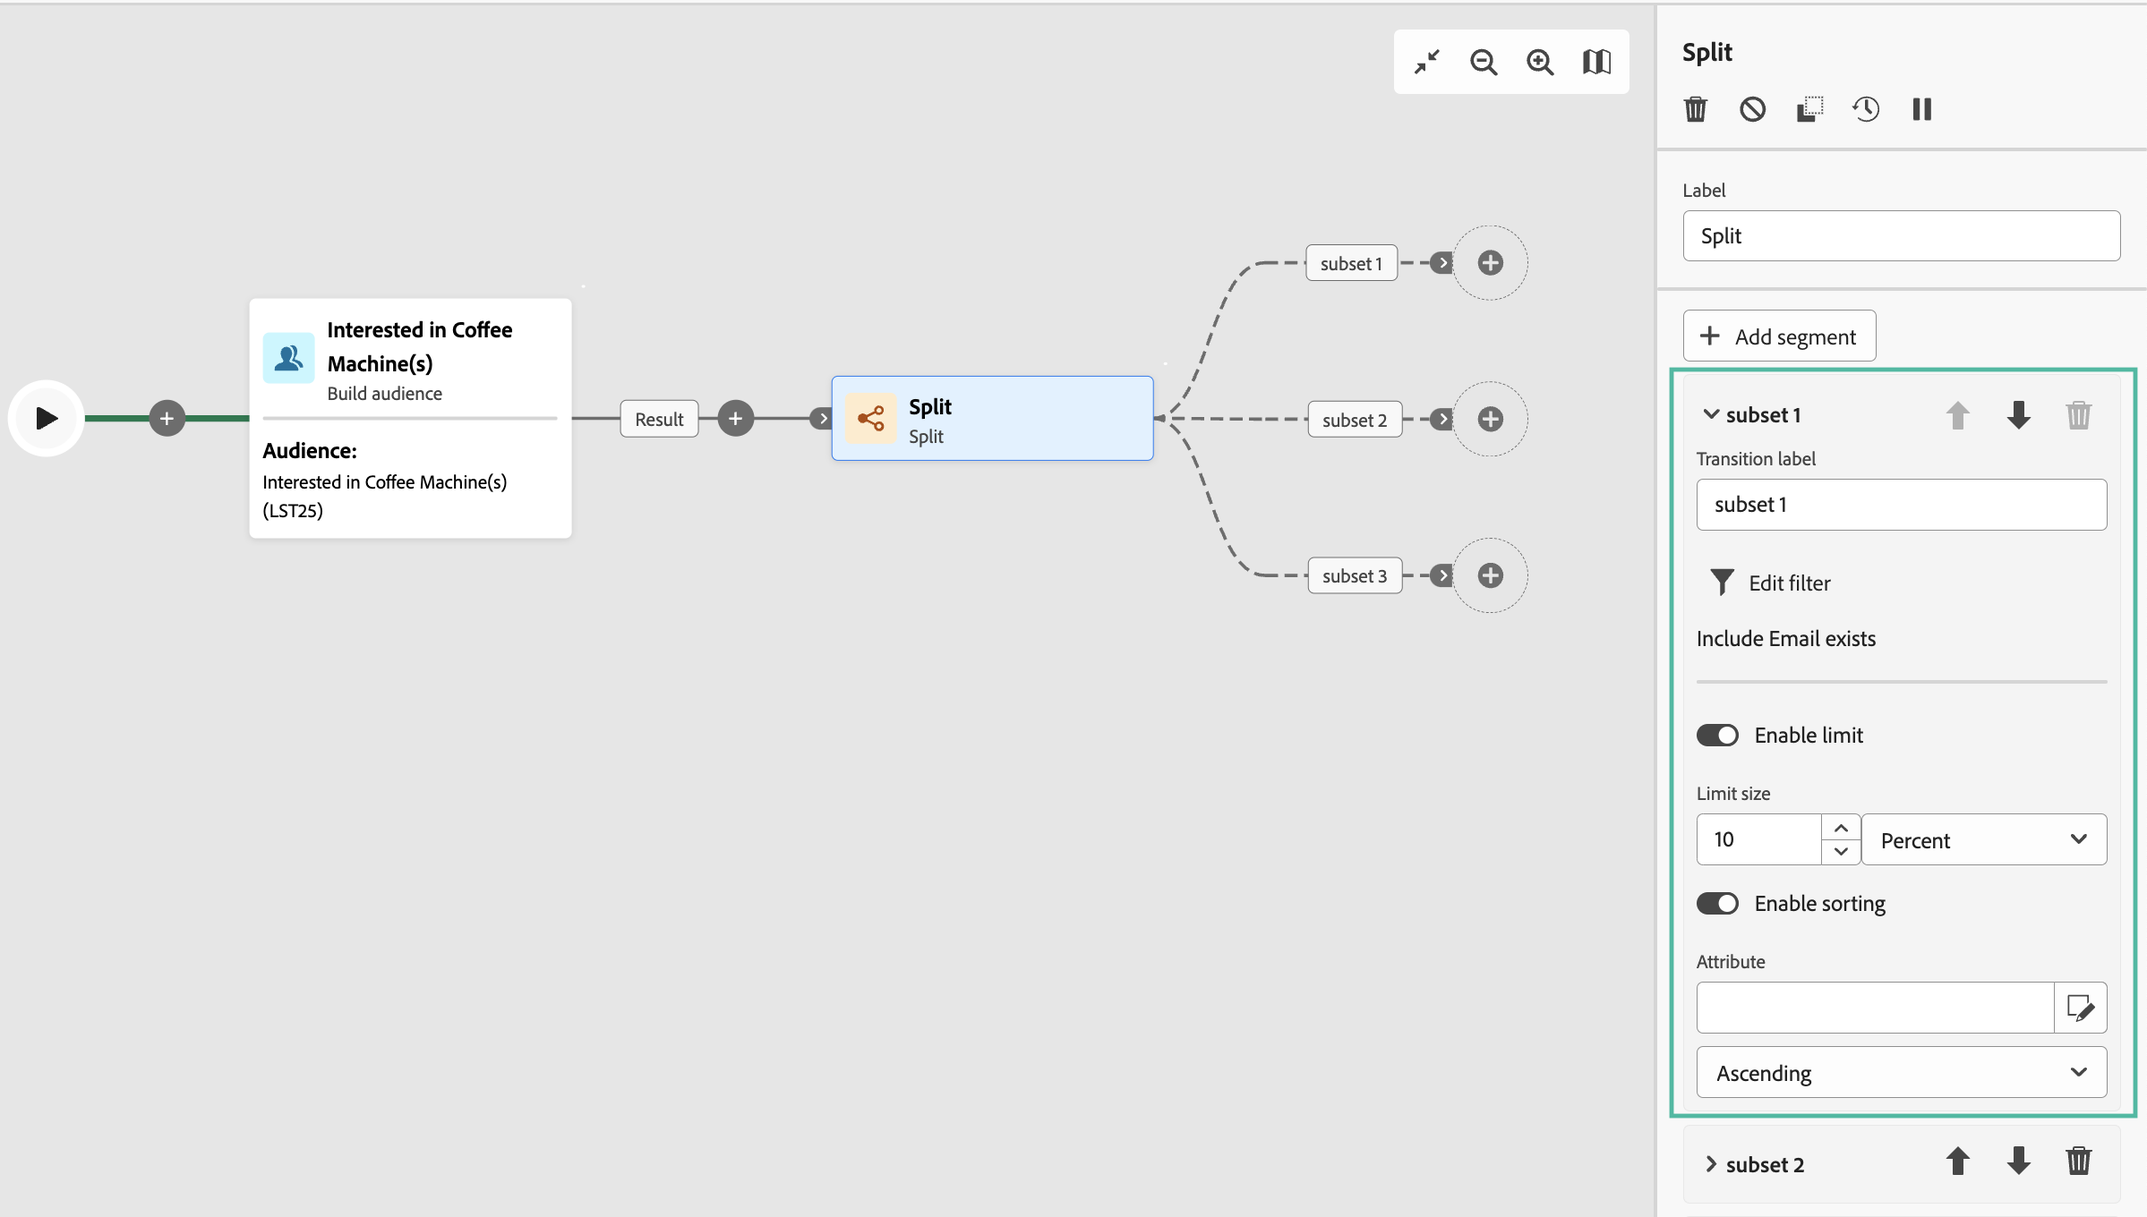
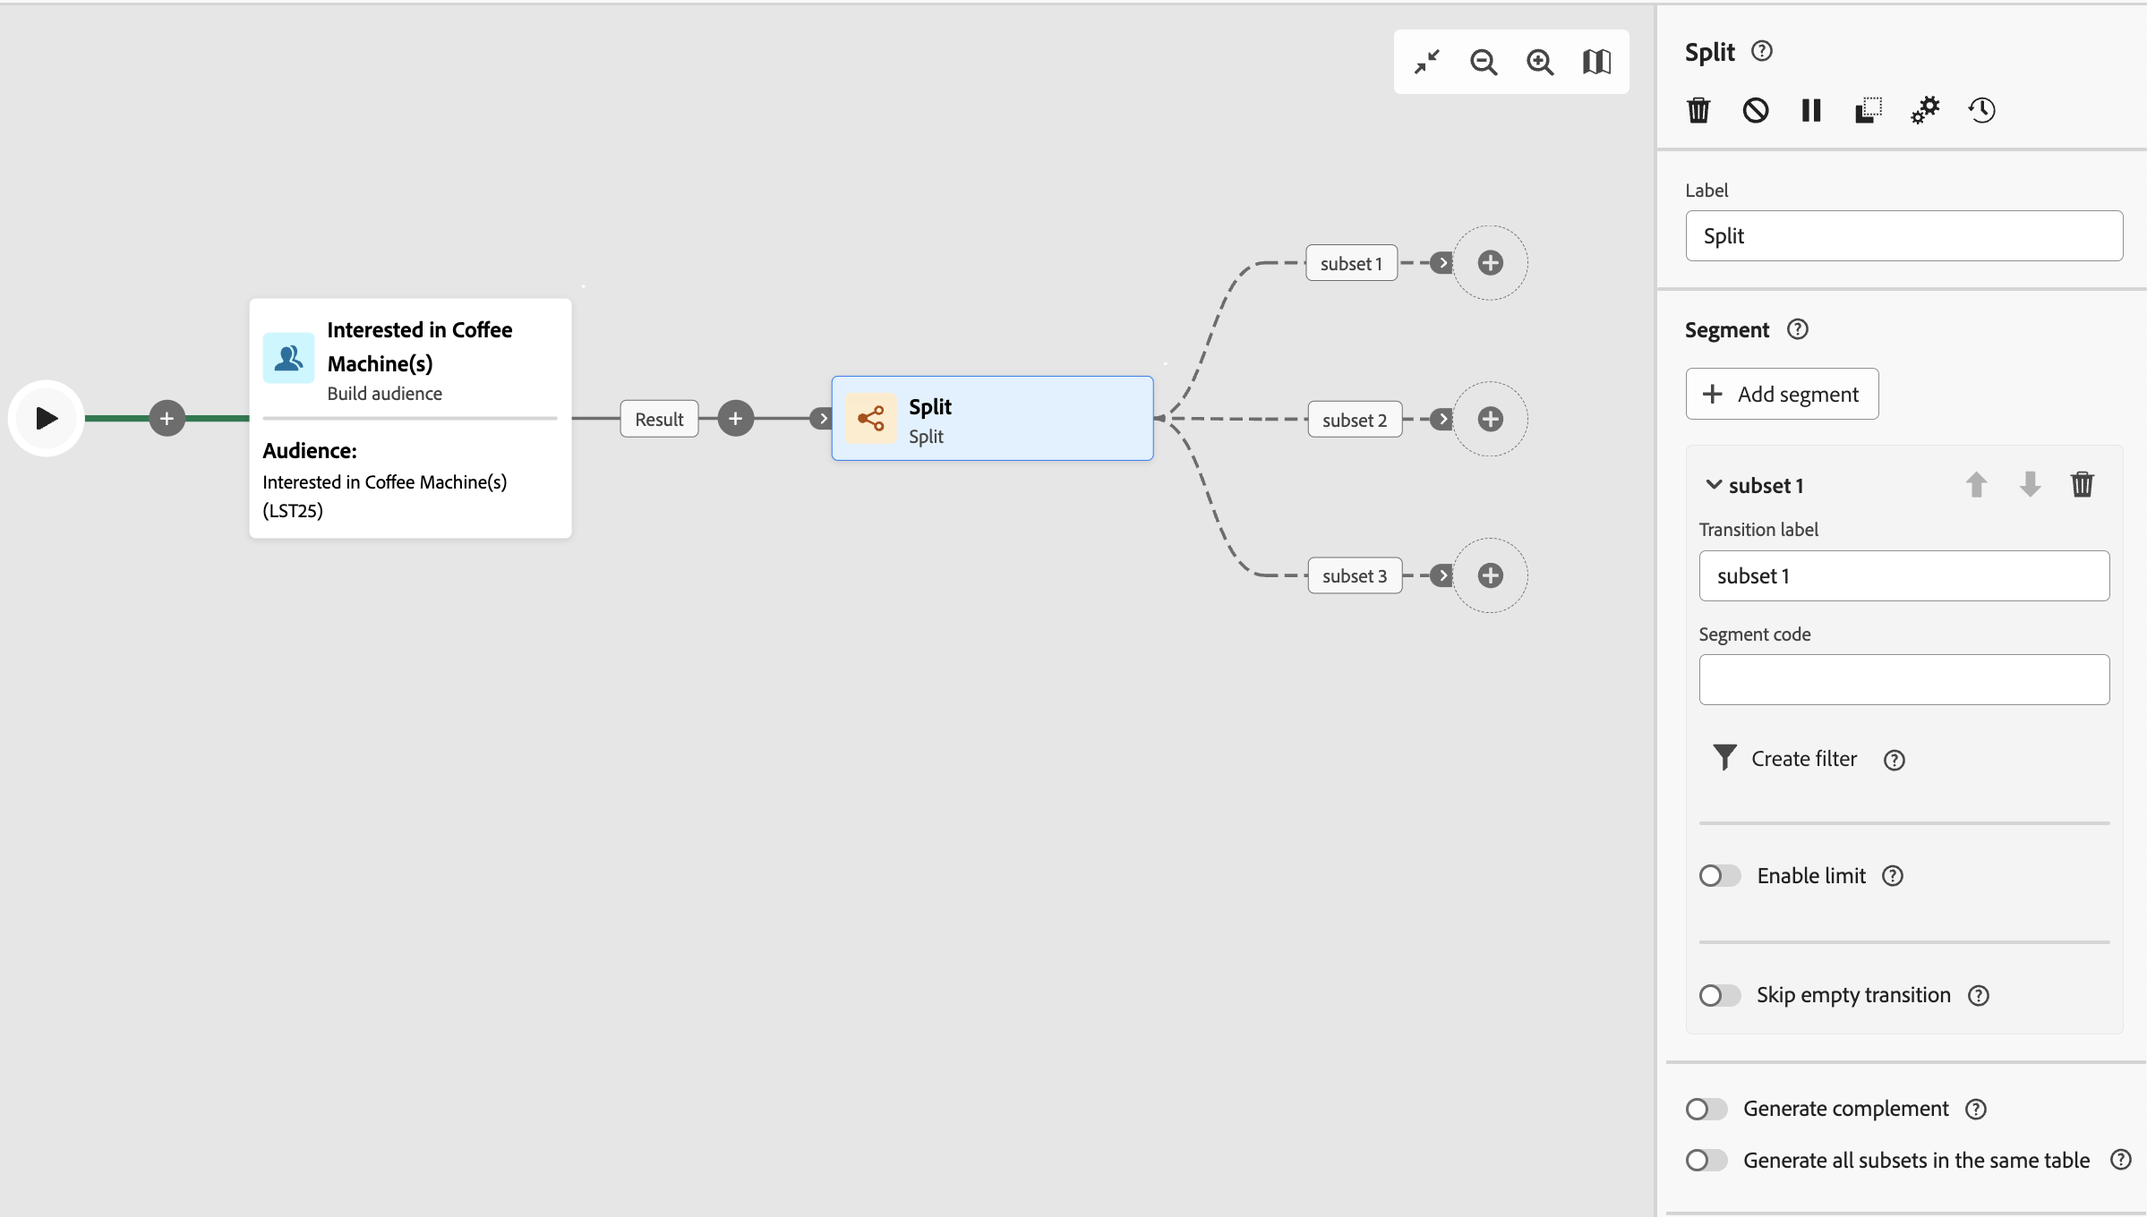
workflow activities update

Changed region(s): [[0.7715, 0.2471, 1.0, 1.0], [0.7715, 0.0309, 0.9258, 0.1235], [0.7715, 0.1544, 0.8332, 0.2162]]

diff --git a/help/v8/workflows/activities/javascript-code.md b/help/v8/workflows/activities/javascript-code.md
@@ -1,0 +1,130 @@
+---
+audience: end-user
+title: Use the JavaScript code workflow activity
+description: Learn how to use the JavaScript code workflow activity
+---
+# JavaScript code {#javascript-code}
+
+>[!CONTEXTUALHELP]
+>id="acw_orchestration_javascript"
+>title="JavaScript code"
+>abstract="The **JavaScript code** activity allows you to execute a JavaScript script in the context of a workflow. This allows you to perform actions or collect information from the database. Use **Simple** JavaScript code activities to execute one code snippet at workflow execution. **Advanced** Javascript code activities allows you to perform more complex operation by executing two different code snippets in a sequential order. The first time the workflow is started, the first call is executed. Each time the workflow runs again, the code defined in the second call is executed."
+
+>[!CONTEXTUALHELP]
+>id="acw_orchestration_javascript_snippet"
+>title="JavaScript Snippet"
+>abstract="Define the script to execute when running the activity. If you are configuring an **Advanced** JavaScript activity, you need to edit two code snippets: the first call code to execute at the first execution of the workflow, and the next call code to execute at the next calls of the workflow."
+
+>[!CONTEXTUALHELP]
+>id="acw_orchestration_javascript_execution"
+>title="JavaScript Execution"
+>abstract="Configure the execution delay to stop the activity after a period of execution. By default, the execution phase cannot exceed 1 hour. After this delay, the process is aborted with an error message and the activity execution fails. To ignore this limit, set the value to 0."
+
+>[!CONTEXTUALHELP]
+>id="acw_orchestration_javascript_transition"
+>title="JavaScript Transition"
+>abstract="If you want to add multiple output transitions, click the **[!UICONTROL Add transitions]** button. This allows you, for example to trigger a specific transition based on a specific condition defined in the JavaScript code activity. This option is available for **Advanced** JavaScript code activities only."
+
+The **JavaScript code** activity is a **Data management** activity. Use this activity to execute a JavaScript script in the context of a workflow. This allows you to collect information from the database or perform other complex operations.
+
+## Configure the JavaScript code activity {#javascript-code-configuration}
+
+Follow these steps to configure the **JavaScript code** activity:
+
+1. Add a **JavaScript code** activity into your workflow.
+
+1. Choose which type of activity you want to create:
+
+    * **Simple**: Execute one code snippet.
+    * **Advanced**: This option allows you to perform more advanced operations by executing two different code snippets. [Learn how to configure an advanced JavaScript activity](#advanced)
+
+    >[!NOTE]
+    >
+    >With the Campaign Web User Interface, we have consolidated two activities into one by merging both **Simple** and **Advanced** JavaScript code functionalities. This consolidation does not impact the functionality of the activity in any way.
+
+1. Confirm then click the **[!UICONTROL Edit code]** button to open the expression editor. The left hand-side pane provides predefined syntaxes that you can leverage to build your code, including event variables. [Learn how to work with event variables and the expression editor](../event-variables.md) 
+
+    ![](../assets/javascript-editor.png)
+
+1. In the **[!UICONTROL Execution]** section, configure the delay to stop the activity after a period of execution. By default, the execution phase cannot exceed 1 hour. After this delay, the process is aborted with an error message and the activity execution fails. To ignore this limit, set the value to 0.
+
+    ![](../assets/javascript-config.png)
+
+1. Toggle on the **[!UICONTROL Process errors]** option to keep errors that occur during the script execution in an additional output transition.
+
+## Advanced JavaScript code activities {#advanced}
+
+Advanced JavaScript activities allow you to perform complex operations. It allows you to:
+
+* Execute two different code snippets. The first code snippet is executed the first time the workflow is started. Each time the workflow runs again, the code snippet defined in the second call is executed.
+* Add multiple output transitions that you can dynamically interact with using a script.
+
+To configure an Advanced JavaScript code activity, follow these steps:
+
+1. Select the **Advanced** type, then configure the code snippet(s) to execute: 
+
+    * Click **[!UICONTROL Edit first call code]** to define the script to execute during the first call.
+    * Click **[!UICONTROL Edit next call code]** to define the script to execute during the next calls of the workflow. (optional)
+
+1. To add one or multiple output transitions, click the **[!UICONTROL Add transitions]** button and specify a label and an internal name for each transition.
+
+    In this example we have configured two transitions that are activated by the script in the code snippet based on specific conditions.
+
+    ![](../assets/javascript-transitions.png)
+
+1. Complete the configuration of the activity and start the workflow.
+
+## Example {#javascript-code-example}
+
+### Initialize variables based on the incoming population {#example1}
+
+This example shows how to initialize a variable based on the number of profiles targeted by a workflow. 
+
+![](../assets/javascript-example1.png)
+
+Here, we are targeting VIP profiles from our database. We want to create a variable named "channel" with a value that depend on the number of profiles targeted by the Build audience activity:
+
+* If more than 1000 profiles are targeted, intialize the variable with the value "email".
+* Otherwise, initialize it with the value "sms". 
+
+To do this, follow these steps:
+
+1. Add a **JavaScript code** activity with the type **Simple** after the **Build audience** activity.
+
+1. Click **Edit code** and configure the code snippet as below:
+
+    ```
+    if (vars.recCount > 1000)
+        vars.channel ="email"
+    else
+        vars.channel = "sms"
+    ```
+
+1. Start the workflow. The "channel" variable is created with the "email" or "sms" value, depending on the number of profiles targeted by the **Build audience** activity.
+
+### Trigger transitions based on a variable's value {#example2}
+
+This example shows how to trigger a transition based on the value of a variable.
+
+![](../assets/javascript-example2-transitions.png)
+
+Here, the workflow starts with an **External signal** activity, into which a variable (`interest`) is passed from another workflow. The value of the variable is either "running" or "yoga", depending on the filtering operations performed in the initial workflow.
+
+We want to trigger different transitions in the workflow, based on the value of the variable.
+
+To do this, follow these steps:
+
+1. Add a **JavaScript code** activity after the External signal activity with the type **Advanced**.
+
+1. Add two transitions: one for each possible variable value ("running", "yoga").
+
+1. Click **Edit first call code** and configure the code snippet as below:
+
+    ```
+    if (vars.interest=="running")
+        task.postEvent(task.transitionByName("running"));
+    else
+        task.postEvent(task.transitionByName("yoga"));
+    ```
+
+1. Complete the configuration of each transition to suit your needs then start the workflow. One of the two output transitions is activated, based on the value of the `interest` variable that has been passed through the **External signal** activity.

diff --git a/help/v8/workflows/event-variables.md b/help/v8/workflows/event-variables.md
@@ -7,7 +7,7 @@ exl-id: 526dc98f-391d-4f3f-a687-c980bf60b93b
 # Workflow event variables {#event-variables}
 
 Some workflow activities allow you to edit scripts in the expression editor to perform specific actions such as retrieving data coming from previous activites, building conditions, or computing file names based on event variables.
-
+ 
 ## What are event variables {#scripting}
 
 Scripts executed in the context of a workflow access a series of additional global **objects** such as the workflow itself that is being executed (`ìnstance`), its various tasks (`task`), or the events that activated a given task (`event`).
@@ -17,7 +17,7 @@ To each type of **object** is associated a category of **variables** that can be
 * **Instance variables** (`instance.vars.xxx`) are comparable to global variables. They are shared by all activities.
 * **Task variables** (`task.vars.xxx`) are comparable to local variables. They are only used by the current task. These variables are used by persistent activities to keep data and are sometimes used to exchange data between the different scripts of a same activity.
 * **Event variables** (`vars.xxx`) enable the exchange of data between the elementary tasks of a workflow process. These variables are passed by the task that activated the task in progress. They are then passed to the following activities. **Event variables** are the most often used variables, and they should be used in preference to instance variables. 
-
+ 
 >[!NOTE]
 >
 >Additional information on scripting and the exposed objects and variables in Adobe Campaign is available in the Campaign v8 (client console) documentation in [this section](https://experienceleague.adobe.com/en/docs/campaign/automation/workflows/advanced-management/javascript-scripts-and-templates).

diff --git a/help/v8/workflows/activities/test.md b/help/v8/workflows/activities/test.md
@@ -5,7 +5,7 @@ description: Learn how to use the Test workflow activity
 ---
 # Test {#test}
 
-The **Test** activity is a **Flow control** activity. It allows you to to enable transitions based on specified conditions.
+The **Test** activity is a **Flow control** activity. It allows you to enable transitions based on specified conditions.
 
 ## Configure the Test activity {#test-configuration}
 
@@ -15,7 +15,9 @@ Follow these steps to configure the **Test** activity:
 
 1. By default, the **[!UICONTROL Test]** activity presents a simple boolean test. If the condition defined in the "True" transition is met, this transition will be activated. Otherwise, a default "False" transition will be activated.
 
-1. To configure the condition associated to a transition, click the **[!UICONTROL Open personalization dialog]** icon. Use the expression editor to define the rules required to activate this transition. Additionally, you can modify the **[!UICONTROL Label]** field to personalize the transition's name on the workflow canvas.
+1. To configure the condition associated to a transition, click the **[!UICONTROL Open personalization dialog]** icon. Use the expression editor to define the rules required to activate this transition. You can also leverage event variables, conditions, and date/time functions. [Learn how to work with event variables and the expression editor](../event-variables.md)
+
+    Additionally, you can modify the **[!UICONTROL Label]** field to personalize the transition's name on the workflow canvas.
 
     ![](../assets/workflow-test-default.png)
 

diff --git a/help/v8/workflows/activities/split.md b/help/v8/workflows/activities/split.md
@@ -46,6 +46,11 @@ The **Split** activity is a **Targeting** activity that allows you to segment in
 >title="Generate all subsets in the same table"
 >abstract="Toggle on this option to group all the subsets into a single output transition."
 
+>[!CONTEXTUALHELP]
+>id="acw_orchestration_split_emptytransition"
+>title="Skip empty transition"
+>abstract="Toggle the **[!UICONTROL Skip empty transition]** option on to disable the output transition for this subset if the incoming population is empty."
+
 Follow these steps to configure the **Split** activity:
 
 1. Add a **Split** activity to your workflow.
@@ -69,6 +74,8 @@ Follow these steps to configure the **Split** activity:
     1. To apply a filtering condition to the subset, click **[!UICONTROL Create filter]** and configure the desired filtering rule using the query modeler. For example, include profiles from the incoming population whose email address exist in the database. [Learn how to work with the query modeler](../../query/query-modeler-overview.md)
 
     1. To limit the number of profiles selected by the subset, toggle on the **[!UICONTROL Enable limit]** option, and specify the number or percentages of the population to include.
+
+    1. To disable a transition if the incoming population is empty, toggle the **[!UICONTROL Skip empty transition]** option on. If no profile matches the subset, the workflow will not transition to the next activity.
 
         ![](../assets/workflow-split-subset.png)
 

diff --git a/help/v8/TOC.md b/help/v8/TOC.md
@@ -130,16 +130,17 @@ breadcrumb-title: Campaign Web User Interface
     + [About workflow activites](workflows/activities/about-activities.md)
     + [And-join](workflows/activities/and-join.md)
     + [Build audience](workflows/activities/build-audience.md)
-    + [Change Data Source](workflows/activities/change-data-source.md)
+    + [Change data source](workflows/activities/change-data-source.md)
     + [Change dimension](workflows/activities/change-dimension.md)
     + [Combine](workflows/activities/combine.md)
     + [Deduplication](workflows/activities/deduplication.md)
     + [Email, SMS, Push, Direct mail](workflows/activities/channels.md)
     + [Enrichment](workflows/activities/enrichment.md)
-    + [External signal](workflows/activities/external-signal.md)
     + [Extract file](workflows/activities/extract-file.md)
+    + [External signal](workflows/activities/external-signal.md)
     + [Fork](workflows/activities/fork.md)
     + [Incremental query](workflows/activities/incremental-query.md)
+    + [JavaScript code](workflows/activities/javascript-code.md)
     + [Load file](workflows/activities/load-file.md)
     + [Reconciliation](workflows/activities/reconciliation.md)
     + [Save audience](workflows/activities/save-audience.md)

diff --git a/help/v8/workflows/activities/build-audience.md b/help/v8/workflows/activities/build-audience.md
@@ -32,7 +32,7 @@ The **Build audience** activity can be placed at the beginning of the workflow o
 >[!CONTEXTUALHELP]
 >id="acw_orchestration_build_audience_audienceselector"
 >title="Audience"
->abstract="TBC"
+>abstract="Audience"
 
 Follow these steps to configure the **Build audience** activity:
 
@@ -52,7 +52,7 @@ To create your own query, follow these steps:
 1. Select **Create your own (query)**.
 1. Choose the **Targeting dimension**. The targeting dimension lets you define the population targeted by the operation: recipients, contract beneficiaries, operator, subscribers, etc. By default, the target is selected from the recipients. [Learn more about targeting dimensions](../../audience/about-recipients.md#targeting-dimensions)
 1. Click **Continue**.
-1. Use the query modeler to define your query, the same way you create an audience when designing a new email. [Learn how to work with the query modeler](../../audience/../query/query-modeler-overview.md)
+1. Use the query modeler to define your query, the same way you create an audience when designing a new email. [Learn how to work with the query modeler](../../query/query-modeler-overview.md)
 
 >[!TAB Read audience]
 

diff --git a/help/v8/workflows/activities/enrichment.md b/help/v8/workflows/activities/enrichment.md
@@ -17,6 +17,11 @@ exl-id: 02f30090-231f-4880-8cf7-77d57751e824
 >abstract="Once enrichment data has been added to the workflow, it can be used in the activities added after the Enrichment activity to segment customers into distinct groups based on their behaviors, preferences, and needs, or to create personalized marketing messages and campaigns that are more likely to resonate with your target audience."
 
 >[!CONTEXTUALHELP]
+>id="acw_orchestration_enrichment_simplejoin"
+>title="Simple join"
+>abstract="Simple join"
+
+>[!CONTEXTUALHELP]
 >id="acw_targetdata_personalization_enrichmentdata"
 >title="Enrichment data"
 >abstract="Select the data to use to enrich your workflow. You can select two types of enrichment data: a single enrichment attribute from the target dimension, or a collection link, which is a link with a 1-N cardinality between tables."

diff --git a/help/v8/workflows/activities/extract-file.md b/help/v8/workflows/activities/extract-file.md
@@ -8,7 +8,7 @@ description: Learn how to use the Extract file workflow activity
 >[!CONTEXTUALHELP]
 >id="acw_orchestration_extractfile"
 >title="Extract file"
->abstract="Extract file activity"
+>abstract="The **Extract file** activity allows you to export data from Adobe Campaign in the form of an external file. The data can then be exported to a server location such as SFTP, Cloud storage or your campaign server using a Transfer file activity."
 
 The **Extract file** activity is a **Data management** activity. Use this activity to export data from Adobe Campaign in the form of an external file. The data can then be exported to a server location such as SFTP, Cloud storage or your campaign server using a Transfer file activity.
 

diff --git a/help/v8/workflows/activities/load-file.md b/help/v8/workflows/activities/load-file.md
@@ -109,7 +109,7 @@ Follow these steps to configure the sample file used to define the expected file
 
 >[!CAUTION]
 >
->Before loading the target file, ensure it adheres to the sample file formatting.  Any discrepancies in the file format, column structure, or number of columns may lead to errors during workflow execution.
+>Before loading the target file, ensure it adheres to the sample file formatting. Any discrepancies in the file format, column structure, or number of columns may lead to errors during workflow execution.
 
 1. In the **[!UICONTROL Target file]** section, specify the action to perform when retrieving the file to upload on the server.
 

diff --git a/help/v8/workflows/activities/external-signal.md b/help/v8/workflows/activities/external-signal.md
@@ -10,7 +10,7 @@ description: Learn how to use the External signal workflow activity
 >[!CONTEXTUALHELP]
 >id="acw_orchestration_externalsignal"
 >title="External Signal"
->abstract="The **External signal** activity lets you trigger the execution of a workflow deom another workflow or an API call."
+>abstract="The **External signal** activity lets you trigger the execution of a workflow from another workflow or an API call."
 
 >[!CONTEXTUALHELP]
 >id="acw_orchestration_externalsignal_parameters"
